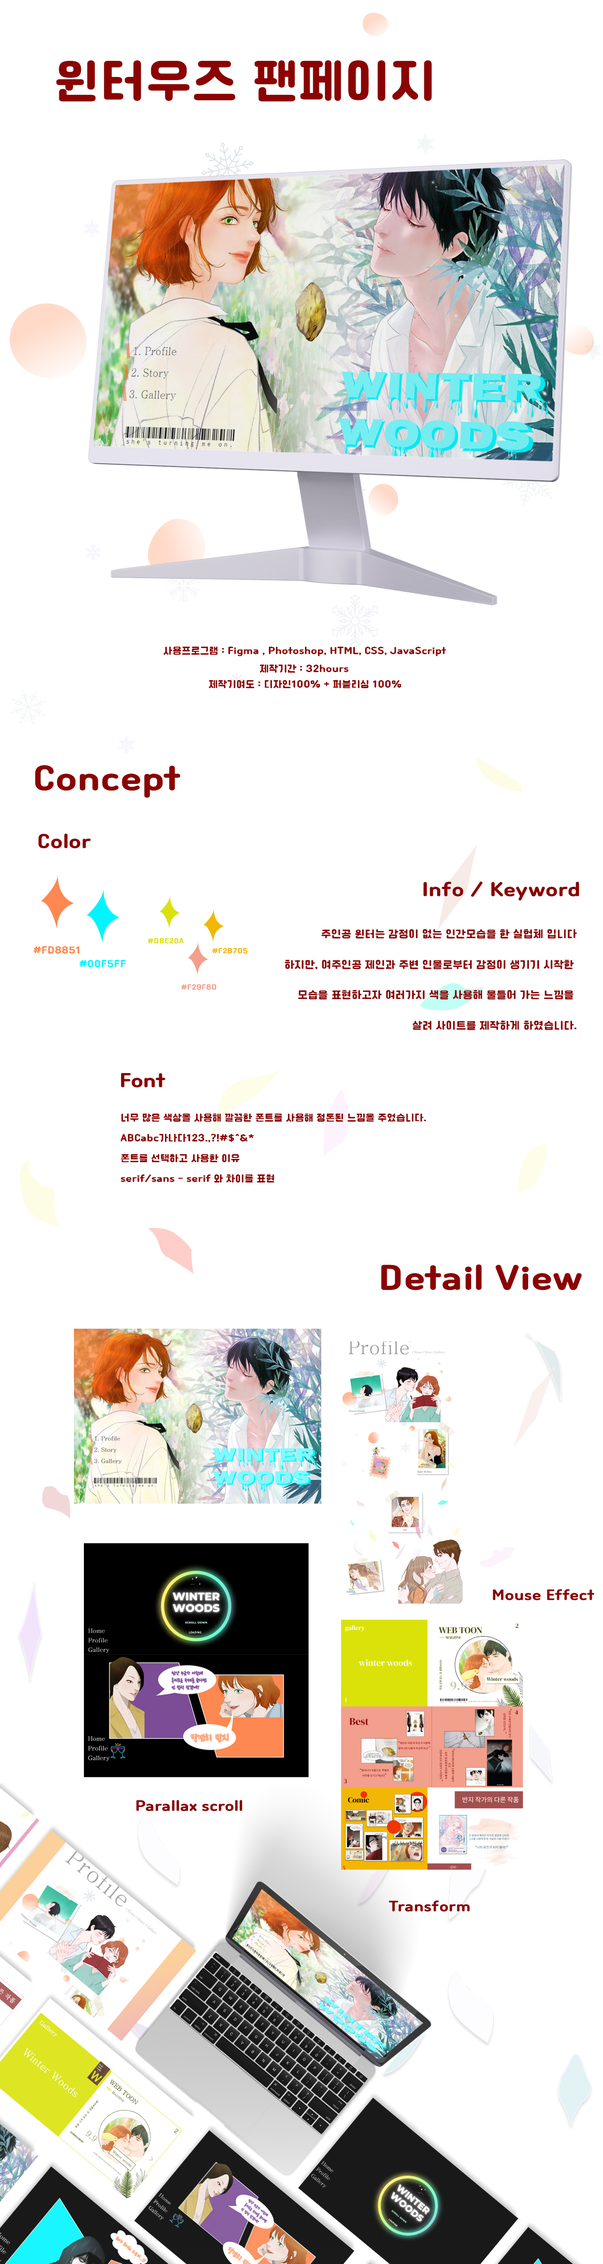
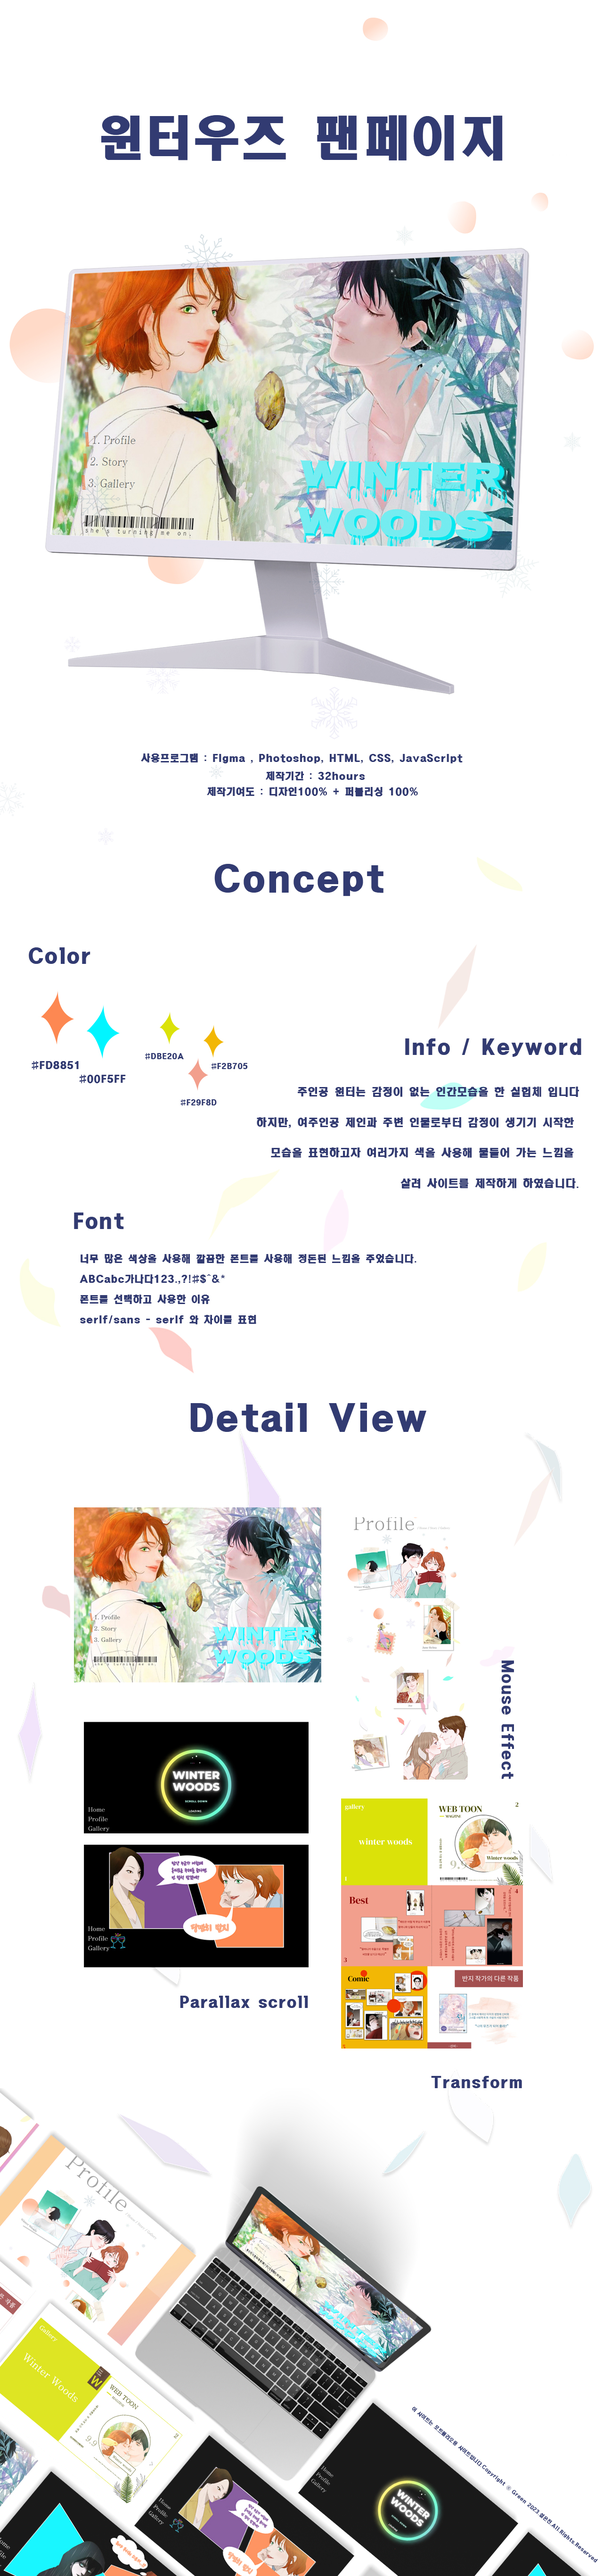
0314

diff --git a/info02/desing/index.html b/info02/desing/index.html
@@ -25,8 +25,10 @@
             <ul class="txt">
                 <li><p>눅스의 대표가 제품인<br> 멀티 드라이 프로디쥬스 오일이므로<br> #맑고 #깔끔한 햇빛을 담은 <br> 물방울 색상(#FDA085)으로 <br> 사이트를 제작했습니다</p></li>
                 <li><p>기존의 한국동물보호연합은 어두운 주제의<br>  기사들이 많아 사이트 자제가 무겁고<br>  텍스트가 많아 복잡한 느낌이 강했습니다. <br> 컨셉컬러 주황색의 #따뜻한 #귀여운<br>  느낌을 살려 친숙한 사이트로<br>  리뉴얼 하게 되었습니다.</p></li>
-                <li><p>주인공 윈터는 감정이 발달되지 않은 실험체<br>이기 때문에 실험실을 벗어나 주변 인물로부터 여러 가지 감정들이 생기게 되는데 <br> 이런 부분을 여러 가지 색상을 사용하여<br> 신비한 느낌을  콘셉트로 잡고 <br>사이트 제작을 하였습니다.</p></li>
+                <li><p>주인공 윈터는 감정이 발달되지 않은 실험체<br>이기 때문에 실험실을 벗어나 주변 인물로부터<br> 여러 가지 감정들이 생기게 되는데 <br> 이런 부분을 여러 가지 색상을 사용하여<br> 신비한 느낌을  콘셉트로 잡고 <br>사이트 제작을 하였습니다.</p></li>
             </ul>
+            <p>응용프로그램</p>
+            <img src="img/program.png" alt="">
         </div>
         <section>
             <article class="pro03">

diff --git a/info02/desing/style.css b/info02/desing/style.css
@@ -21,10 +21,9 @@ body {width: 100%; color: #fff; font-family: 'YUniverse-B'; color: var(--sub02-f
 #wrap {
     position: absolute;
     width: 100%;
-    height: 3900px;
     background-image: url(img/bg.png);
     background-repeat: no-repeat;
-    background-size: contain;
+    background-size: cover;
 }
 
 
@@ -46,8 +45,15 @@ body {width: 100%; color: #fff; font-family: 'YUniverse-B'; color: var(--sub02-f
     display: block;
     font-weight: bold;
 }
+.logoBox p {
+    margin-top: 50px;
+}
+.logoBox img {
+    margin-top: 50px;
+    width: 200px;
+}
 .txt {
-    margin-top: 200px;
+    margin-top: 30px;
     position: relative;
     width: 100%;
     height: 25%;
@@ -130,12 +136,12 @@ article div {
     transition: all 1s;
 }
 article span {
+    overflow: scroll;
     background-color: #A92242;
     display: block;
     position: absolute;
-    top: 2%;
+    top: 7.5%;
     width: 960px;
-    height: 500px;
     z-index: 9;
     opacity: 0;
     right: 1000px;

diff --git a/info02/desing/js.js b/info02/desing/js.js
@@ -1,10 +1,11 @@
 $(document).ready(function(){
-    // let wh = $(window).height();
-    // $('#wrap').height(wh)
-    // $('html,body').scrollTop(0)
-    // $(window).resize(function(){
-    // $('#wrap').height(wh)
-    // });
+    let wh = $(window).height();
+    $('#wrap').height(wh)
+    $('article span').height(wh)
+    $(window).resize(function(){
+    $('#wrap').height(wh)
+    $('article span').height(wh)
+    });
     $('article').mouseenter(function(){
         $(this).stop().animate({'width':'50%'},1000)
         $(this).find('span').animate({'opacity':1,'right':0},600)
